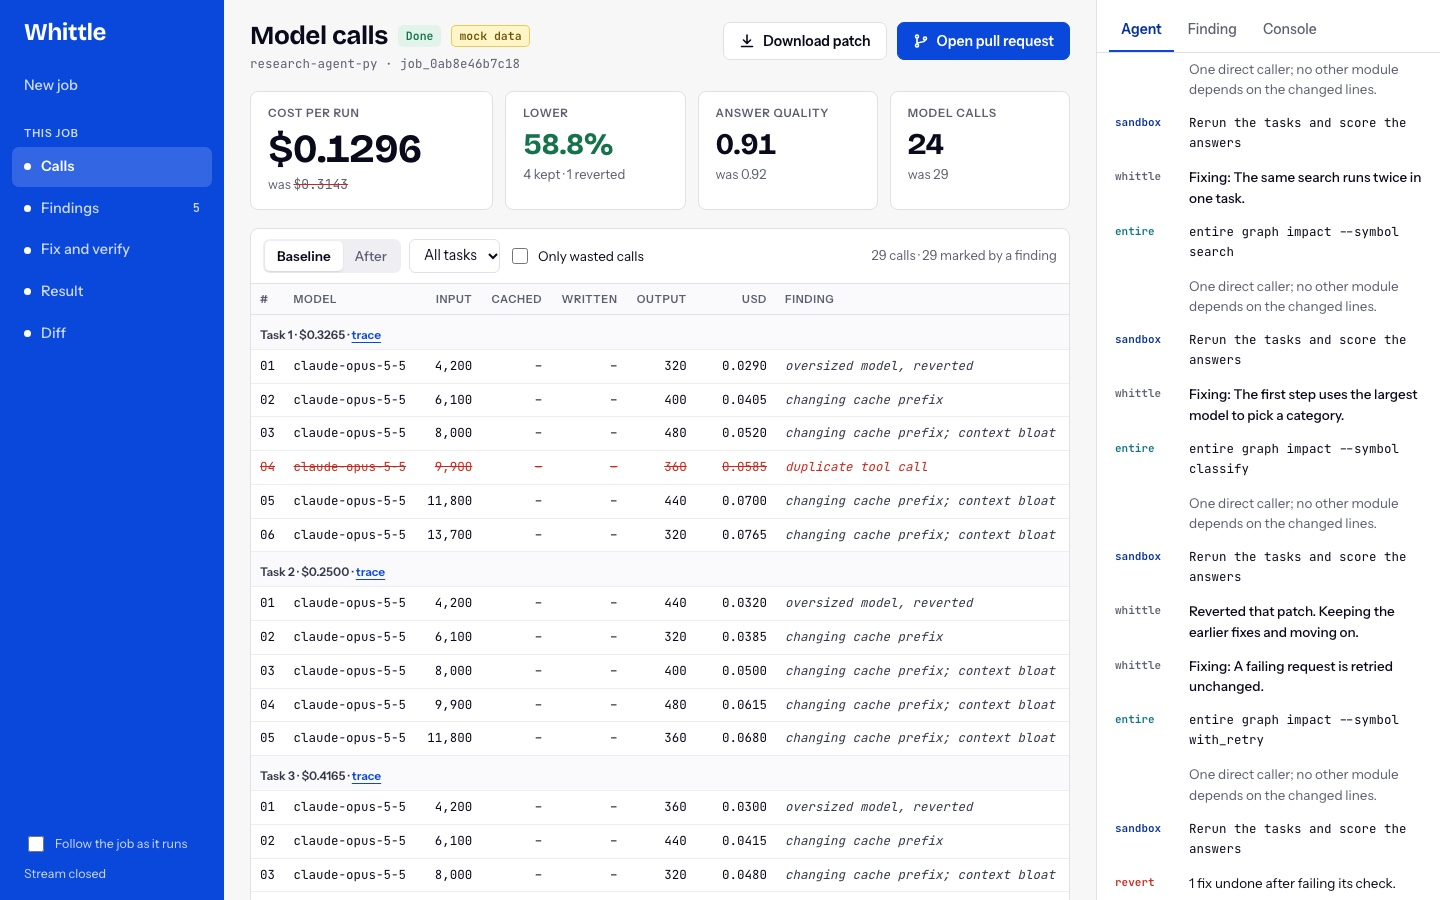
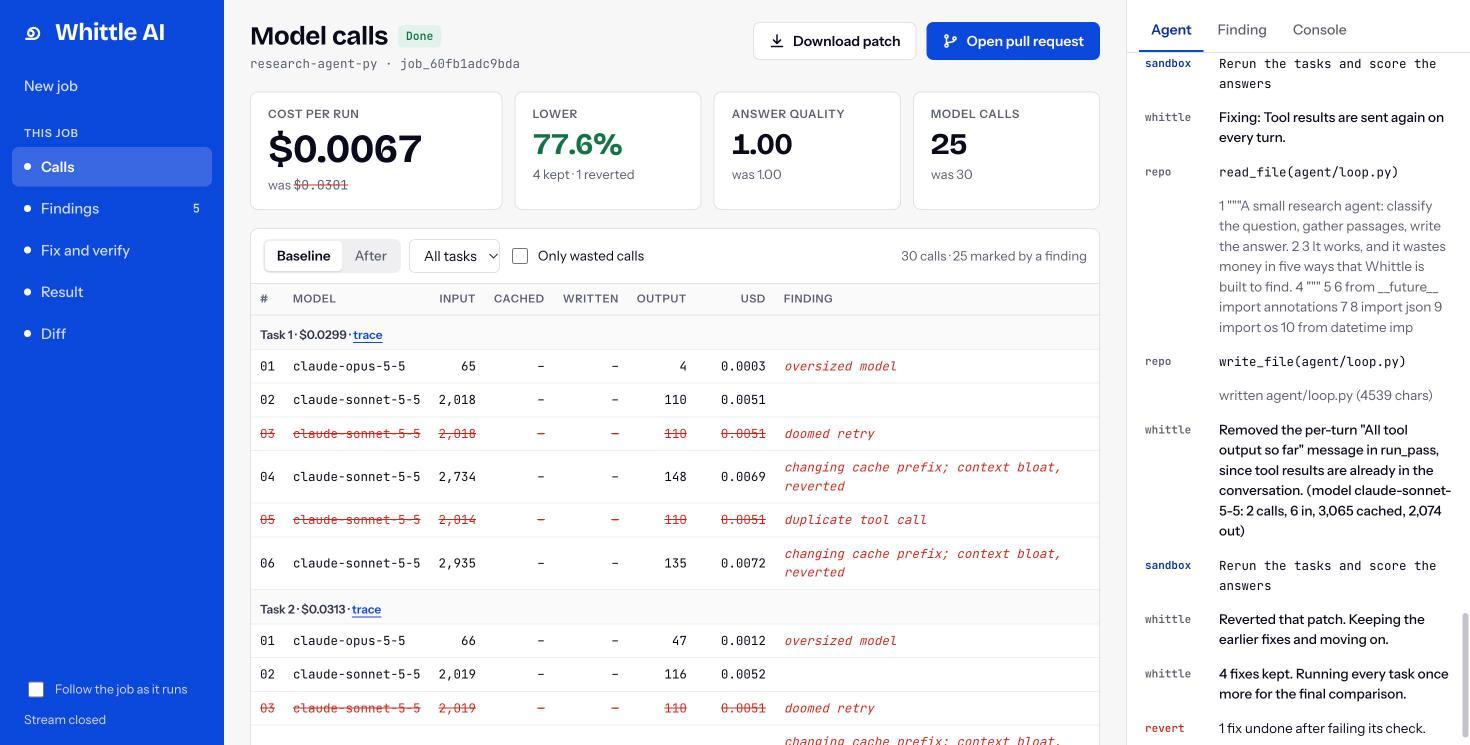
Rewrite the README around the real runs
The README still described a half-built backend and showed screenshots of
the mock. It now leads with a measured run (77.6% lower cost per run),
shows real screens of the calls, findings, fix and diff pages, says what
each sponsor tool does and where in the code, lists the keys needed to
run it, and states the limits plainly.

Entire-Checkpoint: 01M4MMTBQP6HXVGN521DQS43X7

diff --git a/README.md b/README.md
@@ -1,6 +1,6 @@
 <div align="center">
 
-<img src="assets/banner.jpg" alt="Whittle: cut what your agent wastes, prove what you saved" width="100%">
+<img src="assets/banner.jpg" alt="Whittle AI: cut what your agent wastes, prove what you saved" width="100%">
 
 <img src="assets/mark.svg" alt="" width="56" height="56">
 
@@ -14,7 +14,7 @@
 [![Devlog](https://img.shields.io/badge/Devlog-090a1b?style=for-the-badge&logo=git&logoColor=white)](devlog.md)
 
 [![neatHack 2026](https://img.shields.io/badge/neatHack-2026-090a1b?style=flat-square)](https://neatlogs.com/hackathon)
-![Status](https://img.shields.io/badge/status-UI_built%2C_backend_in_progress-ffe45c?style=flat-square&labelColor=090a1b)
+![Status](https://img.shields.io/badge/status-working_end_to_end-ffe45c?style=flat-square&labelColor=090a1b)
 ![Python](https://img.shields.io/badge/Python-3.13-3776AB?style=flat-square&logo=python&logoColor=white)
 ![FastAPI](https://img.shields.io/badge/FastAPI-009688?style=flat-square&logo=fastapi&logoColor=white)
 ![React](https://img.shields.io/badge/React-19-149eca?style=flat-square&logo=react&logoColor=white)
@@ -27,132 +27,206 @@
 
 </div>
 
-Whittle is for the engineer who runs an AI agent and pays its model bill. Point
-it at the agent's repository. It runs the agent in a sandbox, shows where every
-token and dollar goes, fixes the waste in the code, reruns it, and proves the
-saving with before and after traces. A fix that lowers answer quality is taken
-back out, and you watch that happen.
+Whittle AI is for the engineer who runs an AI agent and pays its model bill.
+Point it at the agent's repository. It runs the agent in a sandbox, shows where
+every token and dollar goes, fixes the waste in the code, reruns it, and proves
+the saving with before and after traces. A fix that does not pay for itself, or
+that lowers answer quality, is taken back out, and you watch that happen.
 
 An entry for [neatHack](https://neatlogs.com/hackathon), 10 to 12 October 2026,
 by **team Attention Heads** (Padmanabhan and Sethuraman).
+
+## A real run
+
+On 11 October the sample research agent went through Whittle AI end to end:
+five tasks before, five after, with Whittle's own fixing agent on
+`claude-sonnet-5-5`. Nothing in this section is scripted.
+
+![Result of a real run: 77.6% lower cost per run](assets/screens/result.jpg)
+
+| | Before | After |
+|---|---|---|
+| Cost per run | $0.0303 | $0.0068 (77.6% lower) |
+| Model calls over 5 runs | 30 | 25 |
+| Input tokens | 57,869 | 7,220 |
+| Cache-read tokens | 0 | 37,560 |
+| Answer quality (keyword check) | 1.00 | 1.00 |
+| At 20,000 runs a month | $606 | $136 |
+
+The whole saving is 30 added and 16 removed lines in two files of the agent.
+
+The same sample run again an hour later kept four fixes and reverted the fifth:
+its rerun cost $0.0069 a run against $0.0068 before, so the patch was not worth
+keeping. That is the recovery path working on a real run, not a staged one.
+
+![Fix and verify: four fixes kept, one reverted](assets/screens/fix.jpg)
+
+Three runs of the same sample on the same day gave 82.3%, 77.6% and 77.6%. The
+spread comes from the fixing agent writing a slightly different patch each
+time; every figure is measured from the recorded calls of that run.
+
+## What it looks like
+
+| Landing page | Model calls |
+|---|---|
+| ![Landing page](assets/screens/landing.jpg) | ![Model calls, each marked with the waste it shows](assets/screens/calls.jpg) |
+| **Findings** | **Diff** |
+| ![Five findings, each with its place in the code](assets/screens/findings.jpg) | ![The diff of the kept fixes](assets/screens/diff.jpg) |
+
+The landing page's receipt and its figures are an illustration. Every other
+screenshot is of a real job.
+
+## How it works
+
+1. **Baseline.** The agent runs in a Docker sandbox on a network with no route
+   to the internet. Its model calls go through a recording proxy, so every call
+   is captured with no change to the agent's code, in any language, and the
+   real API key never enters the container.
+2. **Findings.** Detectors read the recorded calls and list the waste they can
+   prove, with the calls behind each finding and the place in the code.
+3. **Fix and verify.** You choose what to fix. For each finding, Whittle's
+   agent reads the code, writes a patch, and the same tasks are rerun and
+   scored. A fix is kept only if the run is cheaper and the answers still pass.
+   Otherwise it is reverted and the earlier fixes stay.
+4. **Proof.** Cost per run before and after, a trace for every run, the diff, a
+   patch, and an optional pull request.
+
+The waste it looks for:
+
+| Waste | What happens | Typical fix |
+|---|---|---|
+| Changing cache prefix | A timestamp or id in the system prompt stops every request from using the cache | Move the volatile text out of the prefix and mark it cacheable |
+| Doomed retry | A failing request is sent again unchanged | Retry the failed step, not the model call |
+| Duplicate tool call | The same tool is called with the same arguments twice in one run | Remember results within the run |
+| Oversized model | A one-line step runs on the largest model | Route that step to a small model |
+| Context bloat | Whole tool results are sent again on every turn | Send each result once |
+
+What the agent does when things go wrong, all visible in the job's event
+stream:
+
+- A fix that is not cheaper, or that drops answer quality below the threshold,
+  is reverted with `git reset` and the reason is shown.
+- A fix the agent cannot write is skipped with the reason, and the job moves
+  on to the next finding.
+- A run whose sandbox loses its connection to the proxy is retried once, so a
+  network fault is not blamed on the fix.
+- A finished job survives a restart of the API; a job that was running when the
+  server stopped is marked failed with the reason.
+
+## The three sponsor tools
+
+### neatlogs
+
+Every run of the user's agent is one neatlogs trace: a `WORKFLOW` root for the
+task and an `LLM` span per model call with its tokens, cache counts, cost and
+messages. The proxy writes them, so the agent under test needs no SDK
+(`api/costcutter/proxy/recorder.py`). Whittle's own fixing agent is traced the
+same way through `neatlogs.wrap` (`api/costcutter/agent/llm.py`), which is how
+its prompt caching was checked: the same fix cost $0.0440 with caching off and
+$0.0359 with it on.
+
+![One run of the agent as a neatlogs trace](assets/screens/neatlogs-trace.jpg)
+
+Each task on the Result page links to its before and after trace. neatlogs had
+trouble processing new traces on the morning of 11 October, so some links from
+that day open a trace that is still pending; the trace above is from the first
+job that morning.
+
+### Entire
+
+Two roles. While building, every commit in this repository carries an
+`Entire-Checkpoint` trailer linking it to the coding session behind it, and
+`entire graph` is the first lookup before any change. At runtime, Whittle calls
+`entire graph search` on the user's cloned repository to find where a wasteful
+call is made, and the fixing agent can ask it what a change would touch
+(`api/costcutter/analyzers/locate.py`, `api/costcutter/agent/fixer.py`). The
+`entire` lines in the app's Agent panel are those calls.
+
+### cfo.ai
+
+The business plan: pricing, cost per job, revenue under three growth cases and
+runway, built from the measured cost per run above. The plan is being built in
+cfo.ai now and will be added under `business/`.
+
+## Run it
+
+You need Docker running, [uv](https://docs.astral.sh/uv/) and Node.js 20 or
+newer.
+
+```bash
+git clone https://github.com/padmanabhan-r/whittle.git
+cd whittle
+cp .env.example .env.local   # then fill in the keys below
+./start.sh
+```
+
+Open **http://localhost:5173**. The script installs what is missing, then
+starts the API on port 8787 and the UI on port 5173. Press Ctrl+C to stop both.
+
+Keys in `.env.local`:
+
+| Variable | For |
+|---|---|
+| `ANTHROPIC_API_KEY` | The sample agent's model calls |
+| `WHITTLE_PROVIDER`, `WHITTLE_MODEL` | Whittle's own fixing agent: Anthropic or any OpenAI-compatible API |
+| `NEATLOGS_API_KEY` | Traces. Without it everything still runs, with no trace links |
+| `GITHUB_BOT_TOKEN` | Opening pull requests. Optional |
+
+Then:
+
+1. On the landing page, choose **Run a sample agent**, then **Run**.
+2. Watch the baseline: each model call is listed with its tokens and price.
+   About a minute.
+3. On **Findings**, tick what to fix and press **Fix selected**.
+4. Watch each fix get patched, rerun and scored. About six minutes.
+5. Read the **Result**, then open the **Diff** or download the patch.
+
+A full sample job costs about $0.60 in model calls. To use your own agent,
+choose **Paste your own repo**: a public GitHub repository, the command that
+runs the agent once, up to ten task inputs, and your model key, which is held
+in memory for the job and never stored.
+
+`WHITTLE_MOCK=1 ./start.sh` runs a mock server instead, with no Docker and no
+keys. Its figures are invented and the app tags them "mock data". If a port is
+taken, set another: `API_PORT=8790 WEB_PORT=5180 ./start.sh`.
 
 ## Status
 
 | Part | State |
 |---|---|
 | Web UI: landing page and app | Built |
-| API contract and mock server | Built and tested |
-| Recording proxy and Docker sandbox | Built and tested |
-| Python sample agent with five kinds of waste | Built |
-| Waste detectors and code locator | Built and tested |
-| Fixing agent, job runner, real API | Built; one real job ran end to end |
-| Trace links in neatlogs | Built, waiting on a write key |
-| Pull request delivery | Written, untested |
-| TypeScript sample, deployment | Not built |
+| Recording proxy, Docker sandbox with no internet access | Built and tested |
+| Five waste detectors and the code locator | Built and tested |
+| Fixing agent, verify and revert, job runner, API | Built; several real jobs run end to end |
+| Job state that survives a restart | Built and tested |
+| neatlogs traces of every run | Built; see the note on pending traces above |
+| Pull request delivery | Written, not yet run against a real repository |
+| Agents in TypeScript | The proxy records them; fixing them is not built |
+| Deployment | In progress |
 
-`./start.sh` runs the real backend. `WHITTLE_MOCK=1 ./start.sh` runs the mock,
-whose figures are invented and tagged "mock data".
-
-## Run it
-
-You need [uv](https://docs.astral.sh/uv/) and Node.js 20 or newer.
-
-```bash
-git clone https://github.com/padmanabhan-r/whittle.git
-cd whittle
-./start.sh
-```
-
-Open **http://localhost:5173**. The script installs what is missing, then
-starts the API on port 8787 and the UI on port 5173. Press Ctrl+C to stop both.
-The real backend needs Docker running and, in `.env.local`, a model key for
-the sample runs (`ANTHROPIC_API_KEY`) and one for Whittle's own agent
-(`WHITTLE_PROVIDER`, `WHITTLE_MODEL`, see `.env.example`).
-
-1. On the landing page, choose **Run a sample agent**.
-2. Pick a sample and press **Run**. "Real pace" takes about a minute.
-3. Watch the baseline: each model call is listed with its tokens and price.
-4. On **Findings**, tick what to fix and press **Fix selected**.
-5. Watch each fix get patched, rerun and scored. One is reverted.
-6. Read the **Result**, then open the **Diff** or download the patch.
-
-If a port is taken, set another: `API_PORT=8790 WEB_PORT=5180 ./start.sh`.
-
-## A real run
-
-On 11 October the sample research agent went through Whittle on this machine.
-Five tasks, baseline and after; Whittle's own agent on `claude-sonnet-5-5`.
-
-![Result of a real run: 82.3% lower cost per run](assets/screens/real-result.png)
-
-| | Before | After |
-|---|---|---|
-| Cost per run | $0.0302 | $0.0053 (82.3% lower) |
-| Model calls over 5 runs | 30 | 20 |
-| Cache-read tokens | 0 | 28,170 |
-| Answer quality (keyword check) | 1.00 | 1.00 |
-
-Four fixes were kept. The fifth, for the duplicate tool call, was tried and
-reverted because its rerun was not cheaper. Trace links are not in the
-screenshot yet; publishing traces needs a neatlogs write key that is being set
-up.
-
-## What it looks like
-
-| Landing page | Fix and verify |
-|---|---|
-| ![Landing page](assets/screens/landing.jpg) | ![Fix and verify](assets/screens/fix.jpg) |
-| **Model calls** | **Result** |
-| ![Model calls](assets/screens/calls.jpg) | ![Result](assets/screens/result.jpg) |
-
-These four screenshots are of the mock run; the one above is real.
-
-## How it works
-
-1. **Baseline.** The agent runs in a Docker sandbox. Its model calls go through
-   a recording proxy, so every call is traced with no change to the agent's
-   code, and its API key never enters the container.
-2. **Findings.** Whittle reads the traces and lists the waste it can prove,
-   with the calls behind each finding and the place in the code.
-3. **Fix and verify.** You choose what to fix. Each fix is patched, the same
-   tasks are rerun, and the answers are scored. A fix that fails is reverted.
-4. **Proof.** Cost per run before and after, the diff, a patch and an optional
-   pull request.
-
-The waste it looks for first:
-
-| Waste | What happens |
-|---|---|
-| Changing cache prefix | A timestamp or id in the system prompt stops every request from using the cache |
-| Context bloat | Whole tool results are resent on every turn |
-| Duplicate tool call | The same tool is called with the same arguments twice in one run |
-| Oversized model | A simple step runs on the largest model |
-| Doomed retry | A failing request is sent again unchanged |
-
-## The three sponsor tools
-
-| Tool | What it does in Whittle |
-|---|---|
-| [neatlogs](https://docs.neatlogs.com/docs) | Records every run as a trace. The agent reads those traces to find waste, and the before and after traces are the proof |
-| [Entire](https://docs.entire.io) | Finds the model call sites in the user's code and what a change would touch. It also keeps a checkpoint of the coding session behind each commit in this repo |
-| [cfo.ai](https://cfo.ai/neathacks) | Holds the business plan, and turns cost per run into a monthly figure |
+Limits worth knowing: an agent that hardcodes its provider's address bypasses
+the proxy, and Whittle reports that it captured no calls. Only public
+repositories are accepted. One job runs at a time.
 
 ## Repository
 
 | Path | What it is |
 |---|---|
 | `web/` | The UI: landing page and app (Vite, React, TypeScript) |
-| `api/` | The backend. So far the contract models and the mock server (Python, FastAPI) |
+| `api/costcutter/proxy/` | The recording proxy: sessions, call records, spend cap, traces |
+| `api/costcutter/sandbox/` | The Docker install and run steps |
+| `api/costcutter/analyzers/` | The five detectors and the code locator |
+| `api/costcutter/agent/` | The fixing agent |
+| `api/costcutter/jobs.py`, `server.py` | The job runner and the API |
+| `samples/research-agent-py/` | The sample agent, with five kinds of waste built in |
 | `start.sh` | Starts the API and the UI together |
-| `docs/plan.md` | **Start here to contribute:** what is done, what is next, who owns it |
+| `docs/plan.md` | What is done, what is next, who owns it |
 | `docs/superpowers/specs/` | The design |
 | `docs/api-contract.md` | What the UI and the backend agree on, with `openapi.json` and `event-schema.json` |
-| `spikes/` | Phase 0 spike scripts and their results |
+| `devlog.md` | The build log: decisions, failures, measurements and evidence |
+| `spikes/` | Early spike scripts and their results |
 | `brainstorm/ideas.md` | The 40 rated ideas the entry was chosen from |
-| `devlog.md` | The build log: decisions, failures and evidence |
-| `CLAUDE.md`, `AGENTS.md` | Working rules for coding agents |
 | `docs/neathack-rules.md` | The hackathon rules and judging weights |
-| `.env.example` | The environment variables the project expects, without values |
 
 ## Development
 
@@ -161,13 +235,6 @@ cd api && uv sync && uv run pytest      # backend tests
 cd web && npm install && npm run build  # type-check and build the UI
 ```
 
-Keys go in `.env.local`, which git ignores. Copy `.env.example` to start. The
-contract lives in `api/costcutter/contract.py`; the UI's types in
+The contract lives in `api/costcutter/contract.py`; the UI's types in
 `web/src/lib/api.ts` mirror it. Change both together, then run
 `uv run python -m costcutter.export_schema` from `api/`.
-
-## Submission
-
-Submissions are open on Monday 12 October 2026, 7:00 PM to 11:55 PM IST, as a
-quote post of the official neatlogs post on X, with the team, the project name,
-this repository and a demo video of three minutes or less.
